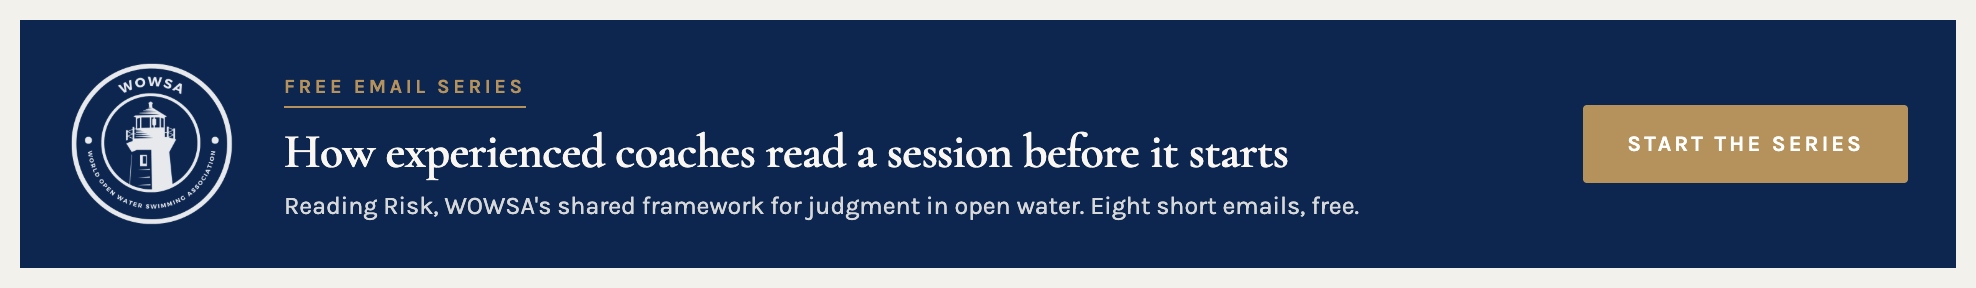
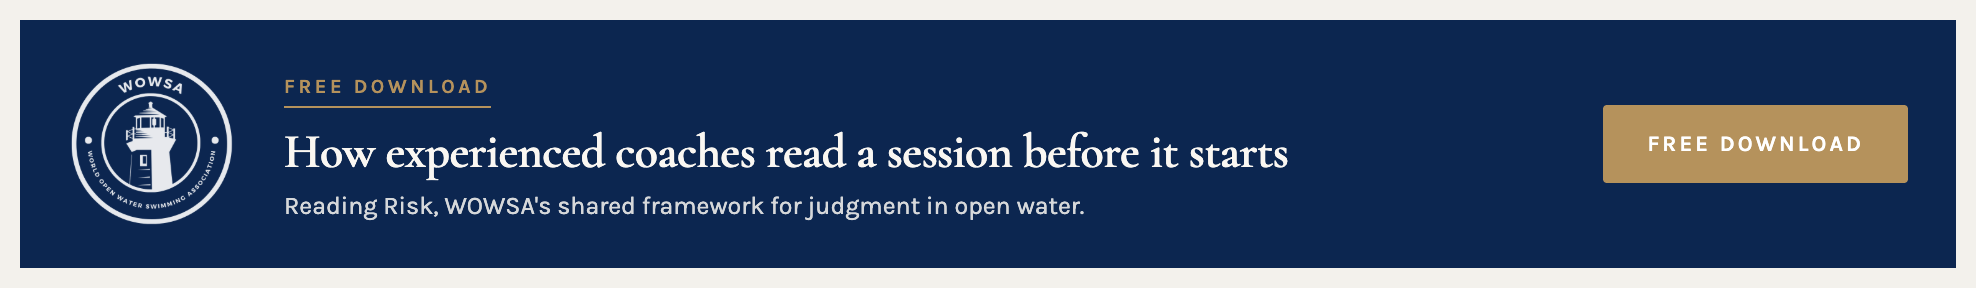
Reshuffle A/D/F by reader commitment, drop series language, add copy rationale
Slot F becomes a mid-article scraper (general Reading Risk audience),
Slot D moves back after the article body (Marathon Swimming, for readers
who finish the piece). CTA and kicker copy switches from "series" framing
to "Free download" / "Get free access", split across units so no single
page repeats the same button. README rewritten to match: install steps,
rollout order, preview images, and the mark section all updated.

diff --git a/slot-f-mid-scraper.html b/slot-f-mid-scraper.html
@@ -1,0 +1,42 @@
+<!--
+  WOWSA archive promotion, Slot F: wide scraper, mid-article.
+  970 x 120 (fluid). WPCode "Insert Into Post" snippet, dropped roughly
+  halfway through the content. General-audience Reading Risk offer, not
+  coach-framed like Slot A. Placed mid-article on purpose: broader
+  readership is still on the page at the midpoint, unlike after the
+  article body, where Slot D's more committed, serious-swimmer audience
+  for Marathon Swimming lives instead. See README.md before editing.
+-->
+<style>
+.wowsa-promo-f{font-family:"Karla",-apple-system,BlinkMacSystemFont,"Segoe UI",Roboto,Helvetica,Arial,sans-serif;box-sizing:border-box}
+.wowsa-promo-f *{box-sizing:border-box}
+.wowsa-promo-f .ad{display:flex;align-items:center;flex-wrap:wrap;gap:clamp(13px,2vw,24px);
+  padding:clamp(15px,1.8vw,20px) clamp(16px,2vw,24px);min-height:clamp(96px,12vw,120px);
+  background:#0C2650;color:#FAF7F2;text-decoration:none;container-type:inline-size}
+.wowsa-promo-f .mark{display:block;flex:none;width:clamp(50px,9cqw,86px);aspect-ratio:1;
+  background-color:#FFFFFF;-webkit-mask-repeat:no-repeat;mask-repeat:no-repeat;
+  -webkit-mask-position:center;mask-position:center;-webkit-mask-size:contain;mask-size:contain;
+  -webkit-mask-image:url(https://www.openwaterswimming.com/wp-content/uploads/2023/07/wowsa-white-logo.png);
+  mask-image:url(https://www.openwaterswimming.com/wp-content/uploads/2023/07/wowsa-white-logo.png);
+  opacity:.9}
+.wowsa-promo-f .grow{flex:1 1 240px;min-width:0}
+.wowsa-promo-f .urg{display:inline-block;font-size:10px;font-weight:600;letter-spacing:.18em;
+  text-transform:uppercase;color:#B5925C;padding:0;border-bottom:1px solid #B5925C;padding-bottom:4px}
+.wowsa-promo-f .h{font-family:"Cormorant Garamond",Georgia,"Times New Roman",serif;font-weight:600;
+  letter-spacing:-.01em;line-height:1.1;font-size:clamp(19px,2.6cqw,26px);margin:9px 0 5px;color:#FAF7F2}
+.wowsa-promo-f .s{font-size:12.5px;line-height:1.45;opacity:.85;font-weight:400}
+.wowsa-promo-f .btn{display:inline-block;background:#B5925C;color:#fff;font-size:11px;font-weight:600;
+  letter-spacing:.14em;text-transform:uppercase;padding:13px 22px;text-decoration:none;
+  white-space:nowrap;border-radius:2px;flex:none}
+</style>
+<div class="wowsa-promo-f">
+  <a class="ad" href="https://www.openwaterswimming.com/learn/reading-risk" target="_blank" rel="noopener noreferrer">
+    <span class="mark" role="img" aria-label="World Open Water Swimming Association"></span>
+    <div class="grow">
+      <span class="urg">Free access</span>
+      <div class="h">How experienced swimmers read changing conditions</div>
+      <div class="s">Reading Risk, WOWSA's shared framework for judgment in open water.</div>
+    </div>
+    <span class="btn">Get free access</span>
+  </a>
+</div>

diff --git a/slot-d-bottom-scraper.html b/slot-d-bottom-scraper.html
@@ -1,9 +1,10 @@
 <!--
-  WOWSA archive promotion, Slot D: wide scraper, bottom of article.
-  970 x 120 (fluid). Paste into the existing ad position below the
-  article body. Marathon Swimming, the free foundational course.
-  No mark: a free course carries no certification claim.
-  See README.md in this repo before editing.
+  WOWSA archive promotion, Slot D: wide scraper, after the article body.
+  970 x 120 (fluid). WPCode "Insert After Post" snippet. Placed after
+  content on purpose: Marathon Swimming is for readers serious enough to
+  finish the article, unlike the general-audience Reading Risk offer in
+  Slot F, which runs mid-article instead. No mark: a free course carries
+  no certification claim. See README.md in this repo before editing.
 -->
 <style>
 .wowsa-promo-d{font-family:"Karla",-apple-system,BlinkMacSystemFont,"Segoe UI",Roboto,Helvetica,Arial,sans-serif;box-sizing:border-box}
@@ -27,6 +28,6 @@
       <div class="h">Plan your first marathon swim</div>
       <div class="s">Eight lessons on training blocks, feed plans and crewing, from the people who ratify the swims. No cost, no card.</div>
     </div>
-    <span class="btn">Start free</span>
+    <span class="btn">Free download</span>
   </a>
 </div>

diff --git a/slot-b-sidebar-banner.html b/slot-b-sidebar-banner.html
@@ -38,13 +38,13 @@
   <a class="ad" href="https://www.openwaterswimming.com/learn/reading-risk" target="_blank" rel="noopener noreferrer">
     <div class="sealbox"><span class="mark" role="img" aria-label="World Open Water Swimming Association"></span></div>
     <div>
-      <span class="urg">Free email series</span>
+      <span class="urg">Free access</span>
       <div class="h">How experienced organizers read changing conditions</div>
       <div class="s">Reading Risk, WOWSA's shared framework for judgment before, during and after an event.</div>
     </div>
     <div class="goldrule"></div>
     <div class="tick"><i></i>Assess, brief, position</div>
     <div class="tick"><i></i>Monitor, decide, document</div>
-    <span class="btn">Start the series</span>
+    <span class="btn">Get free access</span>
   </a>
 </div>

diff --git a/slot-a-top-scraper.html b/slot-a-top-scraper.html
@@ -30,10 +30,10 @@
   <a class="ad" href="https://www.openwaterswimming.com/learn/reading-risk" target="_blank" rel="noopener noreferrer">
     <span class="mark" role="img" aria-label="World Open Water Swimming Association"></span>
     <div class="grow">
-      <span class="urg">Free email series</span>
+      <span class="urg">Free download</span>
       <div class="h">How experienced coaches read a session before it starts</div>
-      <div class="s">Reading Risk, WOWSA's shared framework for judgment in open water. Eight short emails, free.</div>
+      <div class="s">Reading Risk, WOWSA's shared framework for judgment in open water.</div>
     </div>
-    <span class="btn">Start the series</span>
+    <span class="btn">Free download</span>
   </a>
 </div>

diff --git a/slot-c-sidebar-square.html b/slot-c-sidebar-square.html
@@ -28,11 +28,11 @@
     <div class="row">
       <span class="mark" role="img" aria-label="World Open Water Swimming Association"></span>
       <div>
-        <div class="kick">Free email series</div>
+        <div class="kick">Free download</div>
         <div class="h">When to cancel a swim</div>
         <div class="s">How experienced organizers read conditions, and how they decide to call it off.</div>
       </div>
     </div>
-    <span class="btn">Start the series</span>
+    <span class="btn">Free download</span>
   </a>
 </div>

diff --git a/slot-e-sidebar-square-alt.html b/slot-e-sidebar-square-alt.html
@@ -25,10 +25,10 @@
     <div>
       <div class="kick">WOWSA Learn</div>
       <div class="goldrule"></div>
-      <span class="urg">Free email series</span>
+      <span class="urg">Free access</span>
       <div class="h">Reading Risk</div>
       <div class="s">How experienced organizers read changing conditions and make better decisions.</div>
     </div>
-    <span class="btn">Start the series</span>
+    <span class="btn">Get free access</span>
   </a>
 </div>

diff --git a/README.md b/README.md
@@ -14,12 +14,16 @@ Do not add a price, a checkout link, or a certification claim to any of these un
 
 | File | Slot | Size | Where | Destination |
 |---|---|---|---|---|
-| `slot-a-top-scraper.html` | A | 970 x 120 | Above the article title | `/learn/reading-risk`, coach framing |
+| `slot-a-top-scraper.html` | A | 970 x 120 | Before the article title | `/learn/reading-risk`, coach framing |
 | `slot-b-sidebar-banner.html` | B | 300 x 600 | Sidebar, top | `/learn/reading-risk`, organizer framing |
 | `slot-c-sidebar-square.html` | C | 300 x 250 | Sidebar, below banner | `/learn/reading-risk` |
-| `slot-d-bottom-scraper.html` | D | 970 x 120 | Below the article body | `/learn/courses/marathon-swimming` |
+| `slot-d-bottom-scraper.html` | D | 970 x 120 | After the article body | `/learn/courses/marathon-swimming` |
 | `slot-e-sidebar-square-alt.html` | E | 300 x 250 | Sidebar, in place of C | `/learn/reading-risk` |
-| `slot-f-footer-widget.html` | F | Fluid | Site footer | `/learn/reading-risk` |
+| `slot-f-mid-scraper.html` | F | 970 x 120 | Mid-article, roughly halfway through the content | `/learn/reading-risk` |
+
+A, D and F split the archive audience by how far they read. A shows before anyone starts, so it carries the broadest, coach-framed hook. F sits mid-article, where the general readership is still on the page, so it repeats the Reading Risk offer in plainer, audience-agnostic language. D runs after the article body, where only readers who finished the piece remain, so it carries the more involved offer, the free Marathon Swimming course, aimed at people serious enough to read to the end.
+
+**Why "Free download" on some units and "Get free access" on others:** readers get an immediate downloadable asset first, the email series that follows starts after that. "Free download" describes that first-touch deliverable accurately, it is not describing the whole series. The two phrasings are split across units that could plausibly appear on the same page together (A pairs with F, F pairs with D) specifically so the same page never shows the identical button twice.
 
 ### Preview
 
@@ -41,9 +45,9 @@ Rendered from the actual files, not mockups, so what you see below is what pasti
 <img src="preview/slot-e.png" width="240" alt="Slot E, sidebar square, dark alternate">
 
 **Slot F**
-<img src="preview/slot-f.png" width="240" alt="Slot F, footer">
+<img src="preview/slot-f.png" width="700" alt="Slot F, mid-article scraper">
 
-**Two units per page, not five.** One from the top/bottom scraper pair (A or D) and one from the sidebar (B, C, or E). Running all five on one article crowds the read and trains readers to ignore them. C and E are two visual treatments of the same offer, light and dark, use one or the other in a given sidebar, not both.
+**A, D and F run together automatically, plus one sidebar unit.** They sit at three different points in the same article (before, middle, after) via WPCode, so all three can appear on one page at once, that is by design, not an oversight. Add one sidebar unit (B, C, or E) on top of that. C and E are two visual treatments of the same offer, light and dark, use one or the other in a given sidebar, not both.
 
 All destination URLs were checked live on 3 September 2026 and returned 200.
 
@@ -53,16 +57,16 @@ Only the sidebar has a real widget area. There is no widget area in the header o
 
 **B, C, E, paste into the sidebar.** Content Aware Sidebars is active and already runs Custom HTML widgets there. Paste the file's contents straight into a Custom HTML widget in the relevant sidebar.
 
-**A, D, F need a code snippet, not a widget.** These positions, before the article title, after the article body, and the site footer, have no widget area to paste into. **WPCode Lite is already active on the site**, confirmed 3 September 2026. Use it rather than editing a theme template:
+**A, D, F need a code snippet, not a widget.** These positions, before the article title, mid-article, and after the article body, have no widget area to paste into. **WPCode Lite is already active on the site**, confirmed 3 September 2026. Use it rather than editing a theme template:
 
 1. In wp-admin, go to **Code Snippets → Add New** (WPCode).
 2. Set the snippet type to **HTML Snippet**.
 3. Paste the full contents of the file.
 4. Set **Insertion → Location → Auto Insert**:
    - `slot-a-top-scraper.html` → **Insert Before Post**
+   - `slot-f-mid-scraper.html` → **Insert Into Post Content**, positioned roughly halfway through (WPCode offers this as an after-paragraph-number or percentage-through-content option, pick whichever lands closest to the midpoint)
    - `slot-d-bottom-scraper.html` → **Insert After Post**
-   - `slot-f-footer-widget.html` → **Site Wide Footer**
-5. Under **Smart Conditional Logic**, restrict all three (A, D, and F) to **Posts, Pages, and Coaches** only, and explicitly exclude the homepage. None of these three should ever show on the homepage, only on individual posts, pages, and coach profiles. For A and D specifically, this also solves a second problem: without a Single Post restriction, "Before Post" and "After Post" can fire once per item on category and archive listing pages, repeating the unit down the page instead of showing it once on the article.
+5. Under **Smart Conditional Logic**, restrict all three (A, F, and D) to **Posts, Pages, and Coaches** only, and explicitly exclude the homepage. None of these three should ever show on the homepage, only on individual posts, pages, and coach profiles. For A and D specifically, this also solves a second problem: without a Single Post restriction, "Before Post" and "After Post" can fire once per item on category and archive listing pages, repeating the unit down the page instead of showing it once on the article.
 6. Save as inactive first, preview on one live post, page, and coach profile, then activate.
 
 This uses WPCode's own insertion logic rather than a hand-written theme hook, so there is no guessing at which template file or action name this specific theme uses.
@@ -70,8 +74,8 @@ This uses WPCode's own insertion logic rather than a hand-written theme hook, so
 ## Rollout order
 
 1. **Global sidebar first.** Pick one sidebar unit (B, C, or E) and add it to the site-wide sidebar template. This alone reaches the 9,354 general-editorial pages that carry roughly two thirds of the archive's clicks.
-2. **Conditional by category next.** Coach-tagged and profile pages get the coach-framed unit (A or B's coach copy), event and race pages get the organizer framing, safety and conditions pages get slot C or E. Same two-unit-per-page rule applies.
-3. **In-content on the top pages last.** Add A and/or D inside the article body on the highest-traffic 100 pages, which carry about half of all archive clicks. Highest effort, highest return, do it last.
+2. **Conditional by category next.** Coach-tagged and profile pages get the coach-framed unit (A or B's coach copy), event and race pages get the organizer framing, safety and conditions pages get slot C or E.
+3. **In-content snippets last.** Add A, F, and D as WPCode snippets on the highest-traffic 100 pages, which carry about half of all archive clicks. Highest effort, highest return, do it last.
 
 ## Why HTML and CSS, not images
 
@@ -79,7 +83,7 @@ These are live markup, not exported banners. Copy, the destination link, or the 
 
 ## The mark
 
-Slots A, B and C carry the WOWSA association mark, applied as a CSS mask so it can be tinted to whatever color the unit needs, white on the navy units, navy on the cream one, from a single source image:
+Slots A, B, C and F carry the WOWSA association mark, applied as a CSS mask so it can be tinted to whatever color the unit needs, white on the navy units, navy on the cream one, from a single source image:
 
 ```
 https://www.openwaterswimming.com/wp-content/uploads/2023/07/wowsa-white-logo.png
